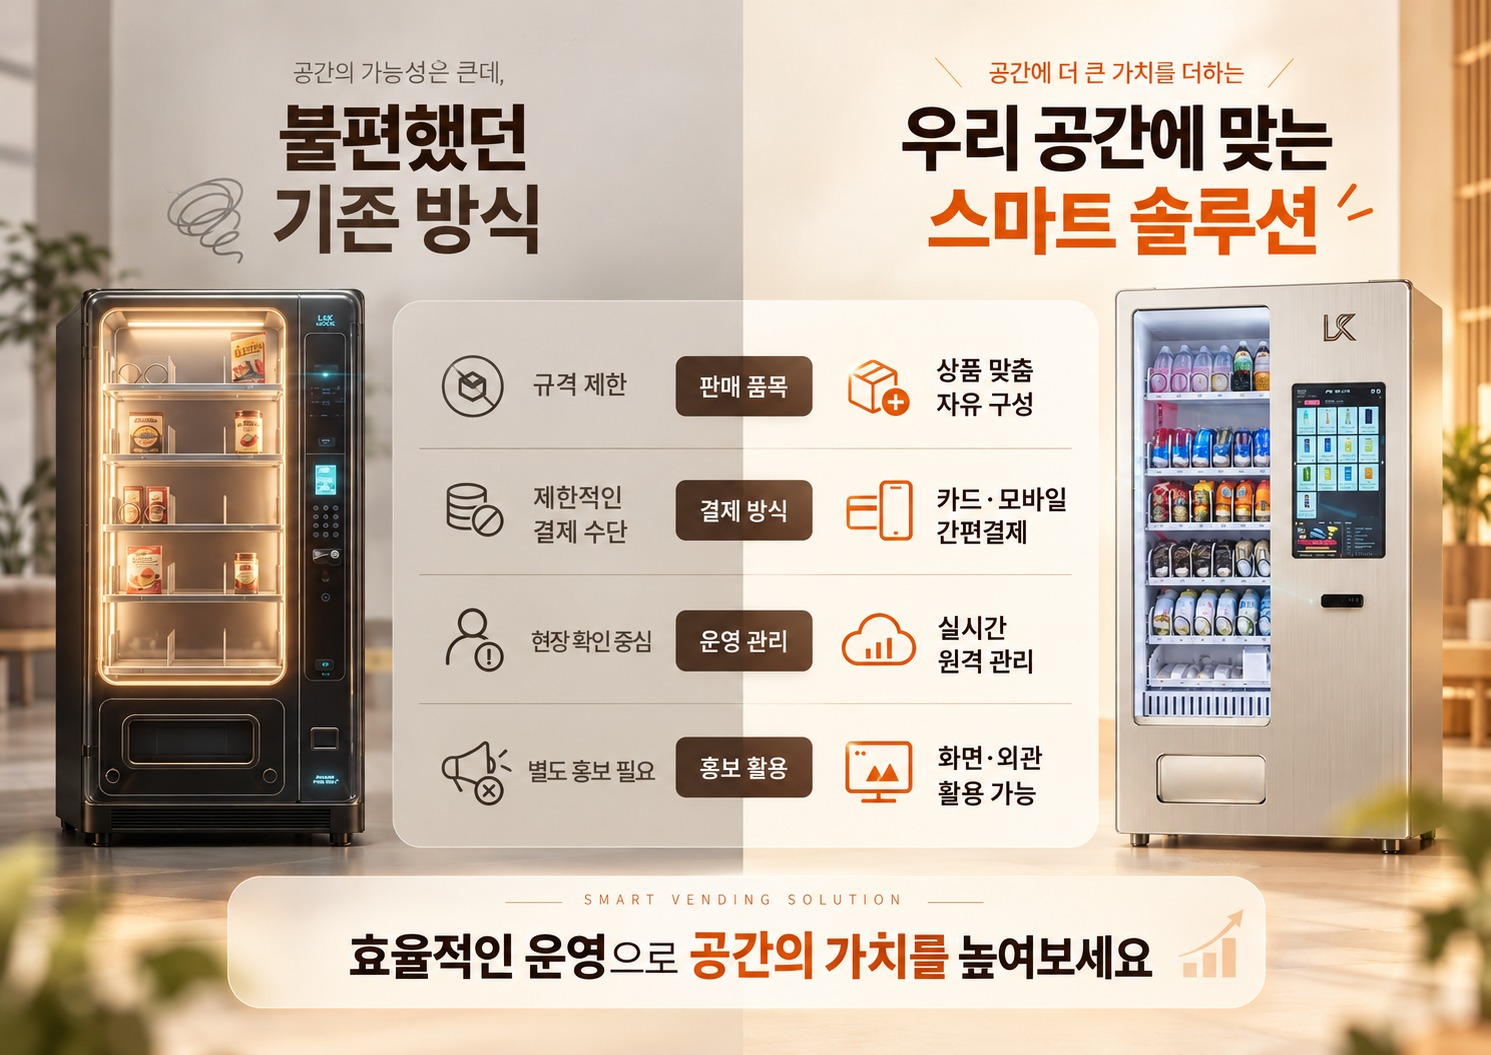
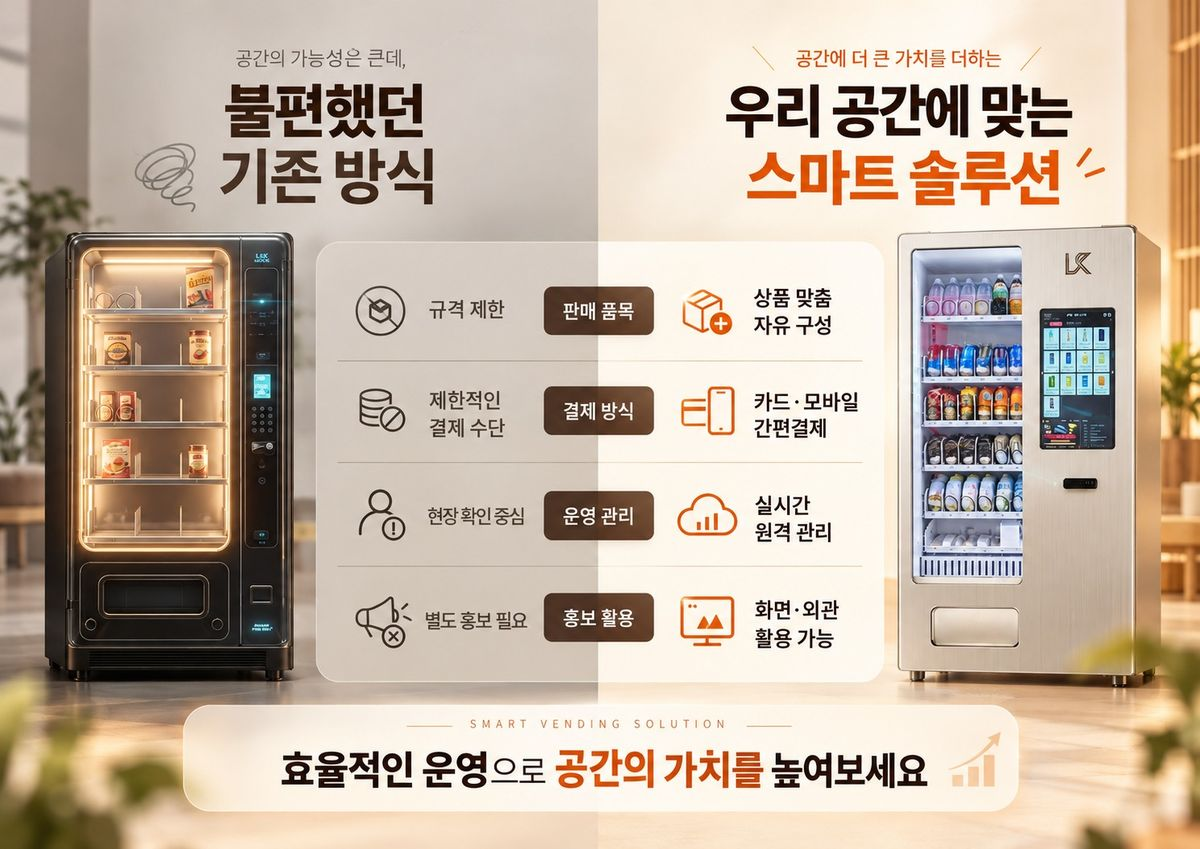
큰 사진 7장 용량 압축(약 1.9MB→1.0MB), 자동 발행 규칙에 '맞는 경우/안 맞는 경우' 추가
Claude-Session: https://claude.ai/code/session_01PoQrHp99mBttwRqW6Q3cBv

diff --git a/CLAUDE.md b/CLAUDE.md
@@ -91,6 +91,7 @@
   9. 키즈카페·놀이시설 자판기 — 양주 키즈카페 사례
   10. 학원·스터디카페 자판기 — 대구 B 학원 사례
   (대기열이 비면 기존 글과 겹치지 않는 새 주제 3개를 이 목록에 추가하고 그중 첫 번째로 작성)
+- 123차 보완(GEO 교육자료 반영, 2026-10-28): 모든 글에 '이런 곳에 맞습니다 / 이런 곳엔 다른 방법이 나을 수 있습니다' 소제목 1개 필수(예: 이용 인원이 매우 적은 곳, 전원·반입이 어려운 곳 → 정수기·간식 바구니·소형 쇼케이스 등 대안 언급). 과장 형용사(최고·엄선·체계적·책임) 금지. FAQ 구조화 데이터는 유지하되 'AI 인용 효과'를 근거로 쓰지 말 것(구글 FAQ 리치결과 2026-05 종료)
 - 작성 규칙: 기존 글 형식(front matter: title·date(날짜만)·tag·cover·color·thumbnail ""·description(150자 이내, '무인자판기' 1회)·summary·faq 3~4개) + 비교표 1~2개 + 질문형 소제목 + 관련 글 2개 링크({{ '/posts/slug/' | relative_url }}) + 마지막 💡 상담 안내 1줄. 제목 45자 안팎, 키워드(장소+자판기 설치) 앞쪽
 - 사실 규칙: 동네자판기는 LK 자판기 공식 판매·설치점(사용자 확인) / 작성자는 '동네자판기'(박시연 쓰지 말 것) / 동네자판기 확인 사양만(24인치 터치·4개 국어·설치일부터 3년 무상 A/S·1080×1920 광고 송출·전국 설치·1대 설치비 포함 23만 원부터·2대 이상 할인) / 설치사례는 _data/areas.yml에 있는 것만, 사진에 근거한 내용은 "(설치 사진 기준)" / 법령·기준 수치는 공공자료로 확인한 것만 + 글 하단 <small>참고: …</small> / 금액·실적·후기 지어내기 금지 / 광고·홍보성 표현 금지(정보성·후기성, SEO+AEO+GEO)
 - 발행 절차: _posts/YYYY-MM-DD-slug.md 작성 → 깨진 링크·front matter 확인 → 커밋(작성자 Claude, 메시지 끝에 Co-Authored-By/Claude-Session 줄) → main 푸시 → 빌드 success 확인 → 이 섹션 대기열에 [완료] 표시 + 키워드 매핑에 추가 → 프로젝트 문서 동기화 → 사용자에게 글 제목·주소 + "네이버 웹 페이지 수집·구글 색인 요청에 이 주소를 넣어 주세요" 알림
@@ -107,6 +108,13 @@
 - 사례 데이터는 `_data/areas.yml` 하나로 관리(허브 /area/와 상세 페이지 공용). 새 사례 → areas.yml + 메인 #case에 추가. 상세 페이지 있는 지역은 `page:` 값 → 허브에 '자세히 →' 링크
 - 원칙: 지역명만 바꾼 복제 페이지 금지(구글 도어웨이 정책). 지역마다 실제 사례·업종별 내용·지역 FAQ가 달라야 함. 2~3개월 서치콘솔 확인 후 사례 생긴 지역부터 확장
 - 키워드 → 주소 매핑: 무인자판기 설치/임대·렌탈 → / | 지역별 자판기 설치 → /area/ | 대구·구미·경북 자판기 설치 → /area/gyeongsang/ | 경기(화성·하남·부천) 자판기 설치 → /area/gyeonggi/ | 제주 자판기 설치 → /area/jeju/ | 광주·전라 자판기 설치 → /area/jeolla/ | 호텔 자판기 → /posts/hotel-vending/ | 자판기 설치 비용 → /posts/cost-factors/ | 자판기 렌탈·임대·구매 → /posts/rent-vs-lease/ | 스마트·키오스크 자판기 → /posts/smart-vs-basic/ | 냉장·냉동 자판기 → /posts/freezer-showcase/ | 자판기 설치 절차 → /posts/install-process/ | 회사·학교·병원 자판기 상품 → /posts/items-by-space/ | 설치 전 확인 → /posts/check-before-install/ | 병원 자판기 → /posts/hospital-vending/ | 야구장 자판기·굿즈 자판기·밀키트 자판기 → /posts/baseball-vending/ | (예정) 골프장 자판기
+
+## GEO 교육자료 점검(123차, 2026-10-28)
+- 자료: 바인그룹 'GEO 1회차' (Google 공식: AI 전용 마크업 불필요, FAQ 리치결과 종료, llms.txt 무관 / 검색봇은 열고 학습봇은 정책대로 / 지역명 바꾼 페이지 대량 생산 금지 / 측정: 서치콘솔+애널리틱스+프롬프트 감사)
+- 반영: 큰 사진 7장 압축(1,907KB→989KB, 가로 최대 1200px·품질 80, 파일명 그대로), 자동 발행 규칙에 '맞는 경우/안 맞는 경우' 추가
+- 진행 중: 네이버 애널리틱스(사용자 선택) — 사용자가 analytics.naver.com에 dongnevending.com 등록 후 스크립트 ID 전달 예정 → index.html·base.html에 삽입 + 개인정보 처리방침 '분석 도구 안 씀' 문구 수정
+- 다음 후보: A/S·계약 안내 페이지(고장 연락 방법·A/S 범위·계약 기간·철거 조건 — 사용자 정보 필요), 상담에서 자주 받는 질문 10개(사용자 제공) → FAQ·글 주제, 월 1회 프롬프트 감사(ChatGPT 등에 고정 질문 10개)
+- robots.txt는 전체 허용(/admin/만 차단) 유지 — 학습봇 차단 여부는 사용자 결정 사항(현재 허용)
 
 ## 작성자 표시(117차, 2026-10-23 → 122차 2026-10-28 변경)
 - 122차: 박시연은 사용자 실명이 아님 → 작성자를 '동네자판기'로 변경(표지 '동네자판기 · 날짜', `_config.yml` author_name, Article JSON-LD author=Organization). 박시연 이름은 사이트 어디에도 쓰지 말 것
